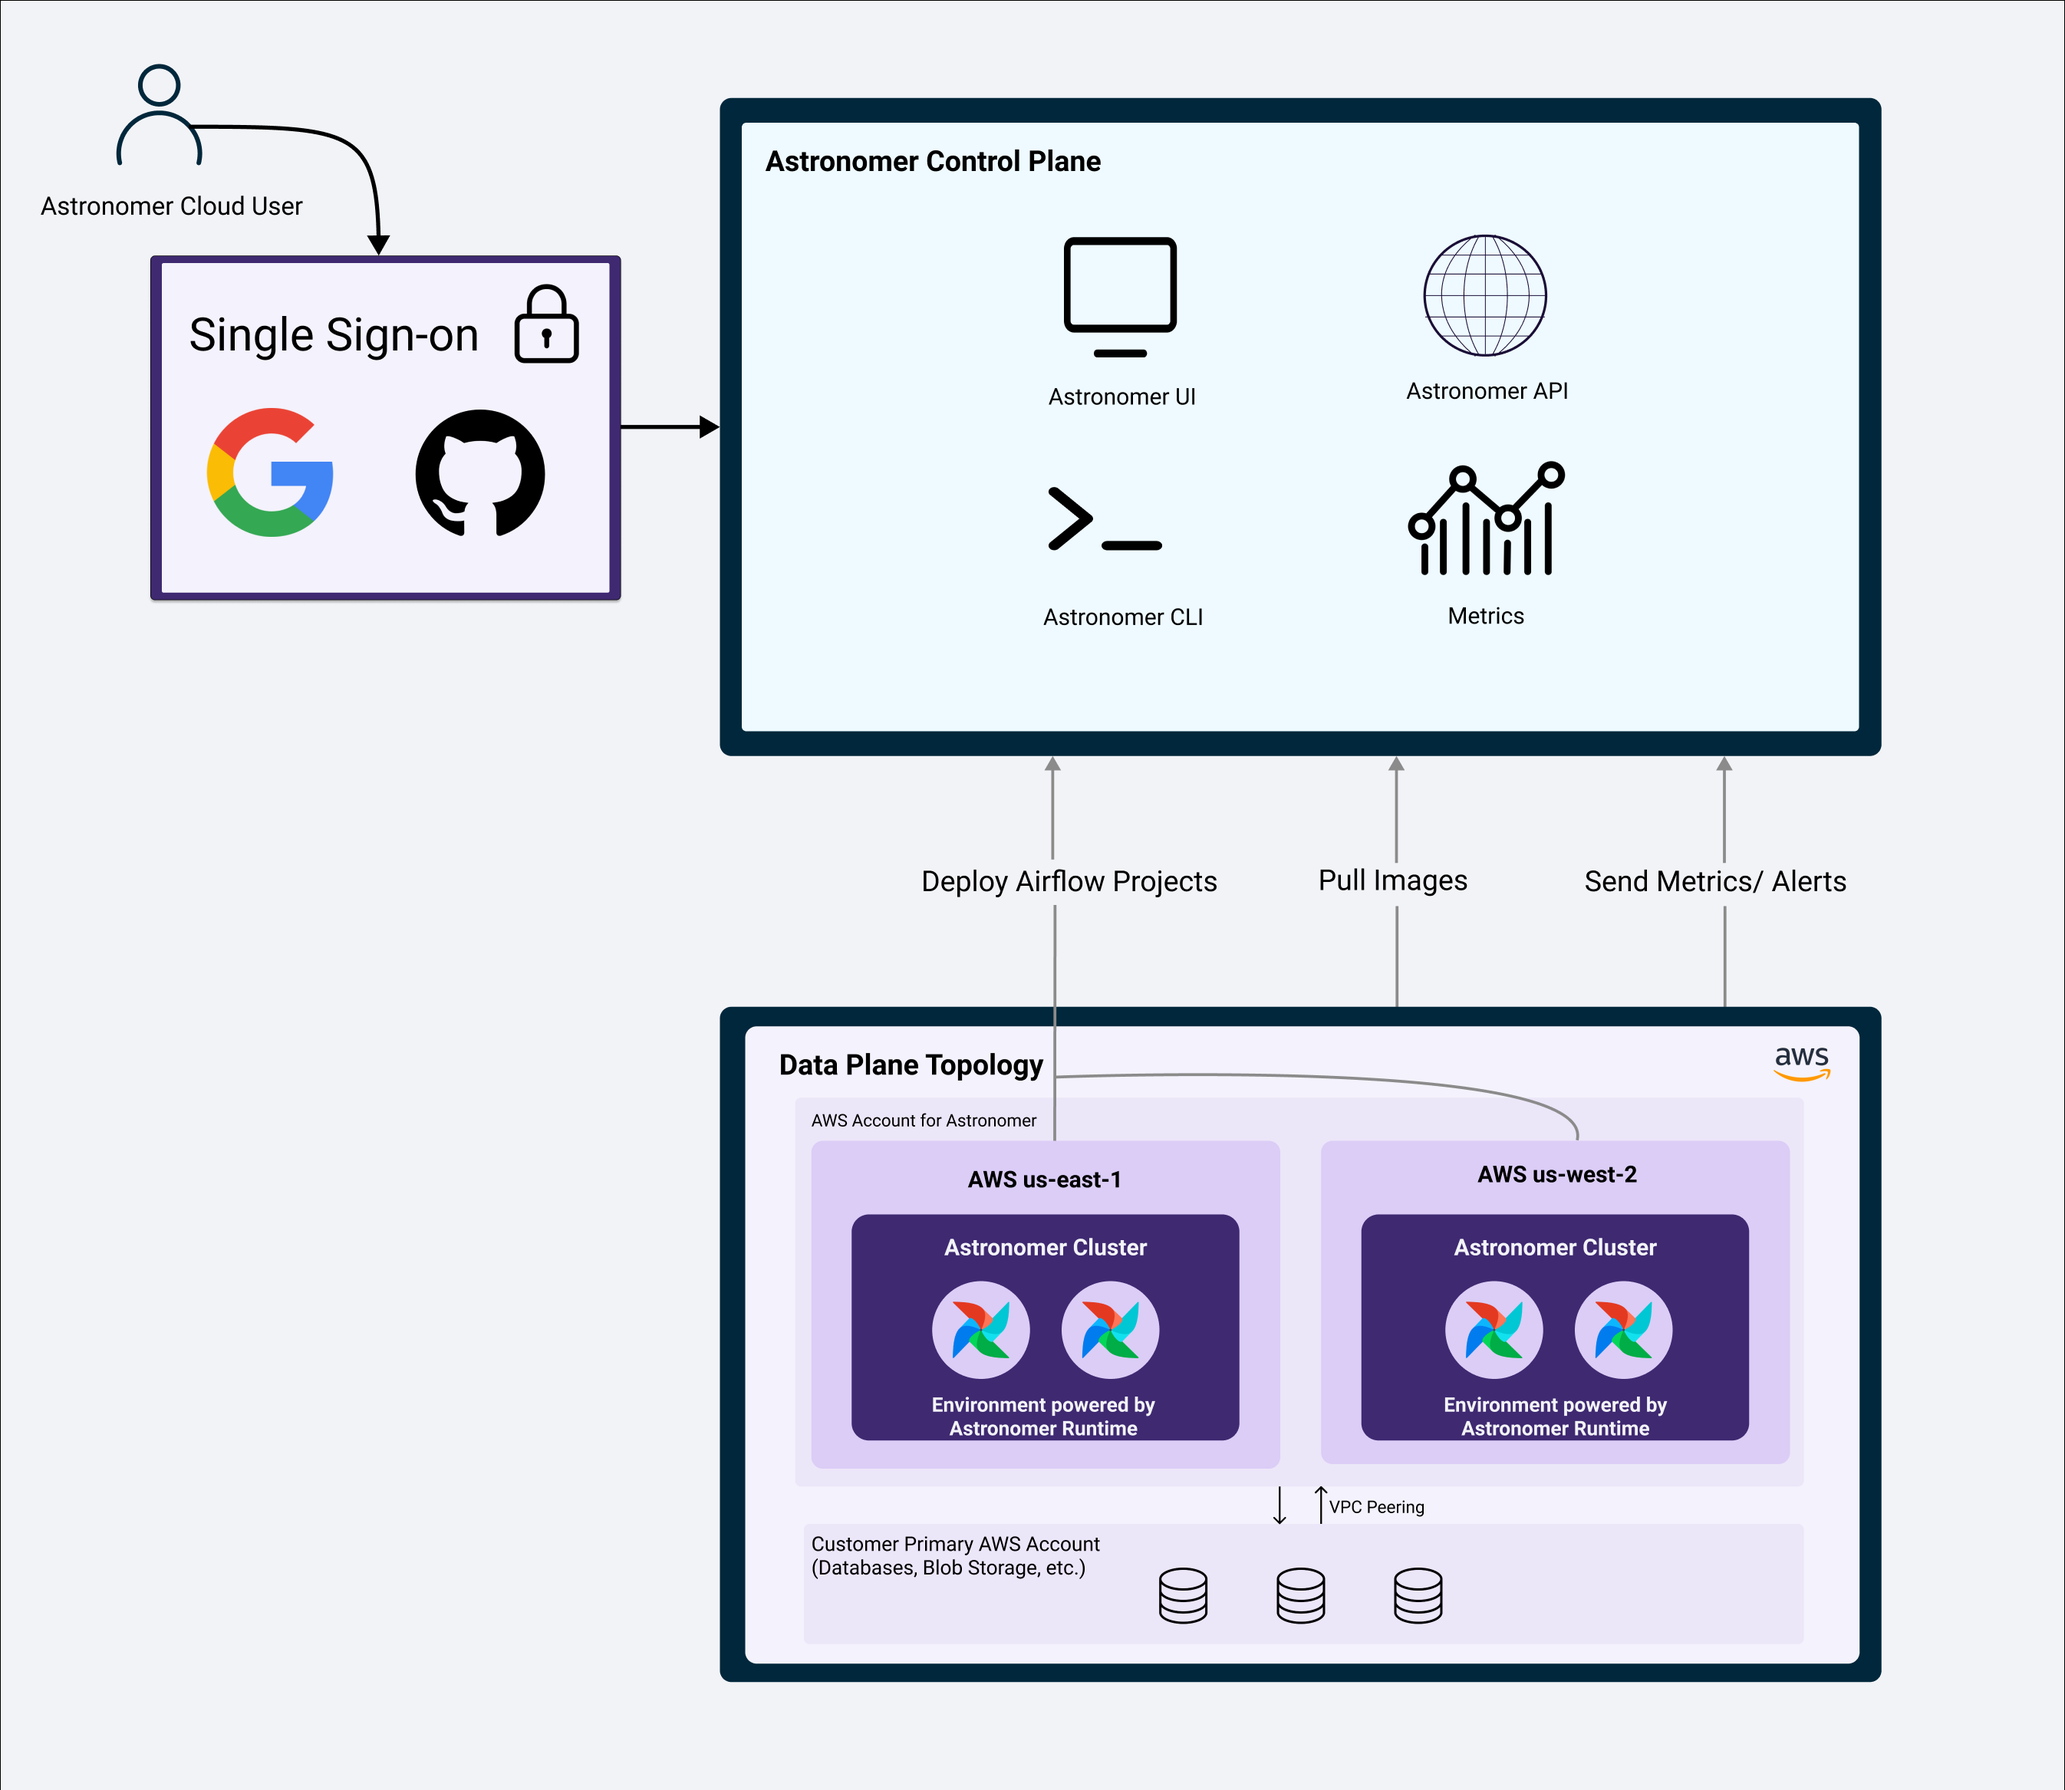
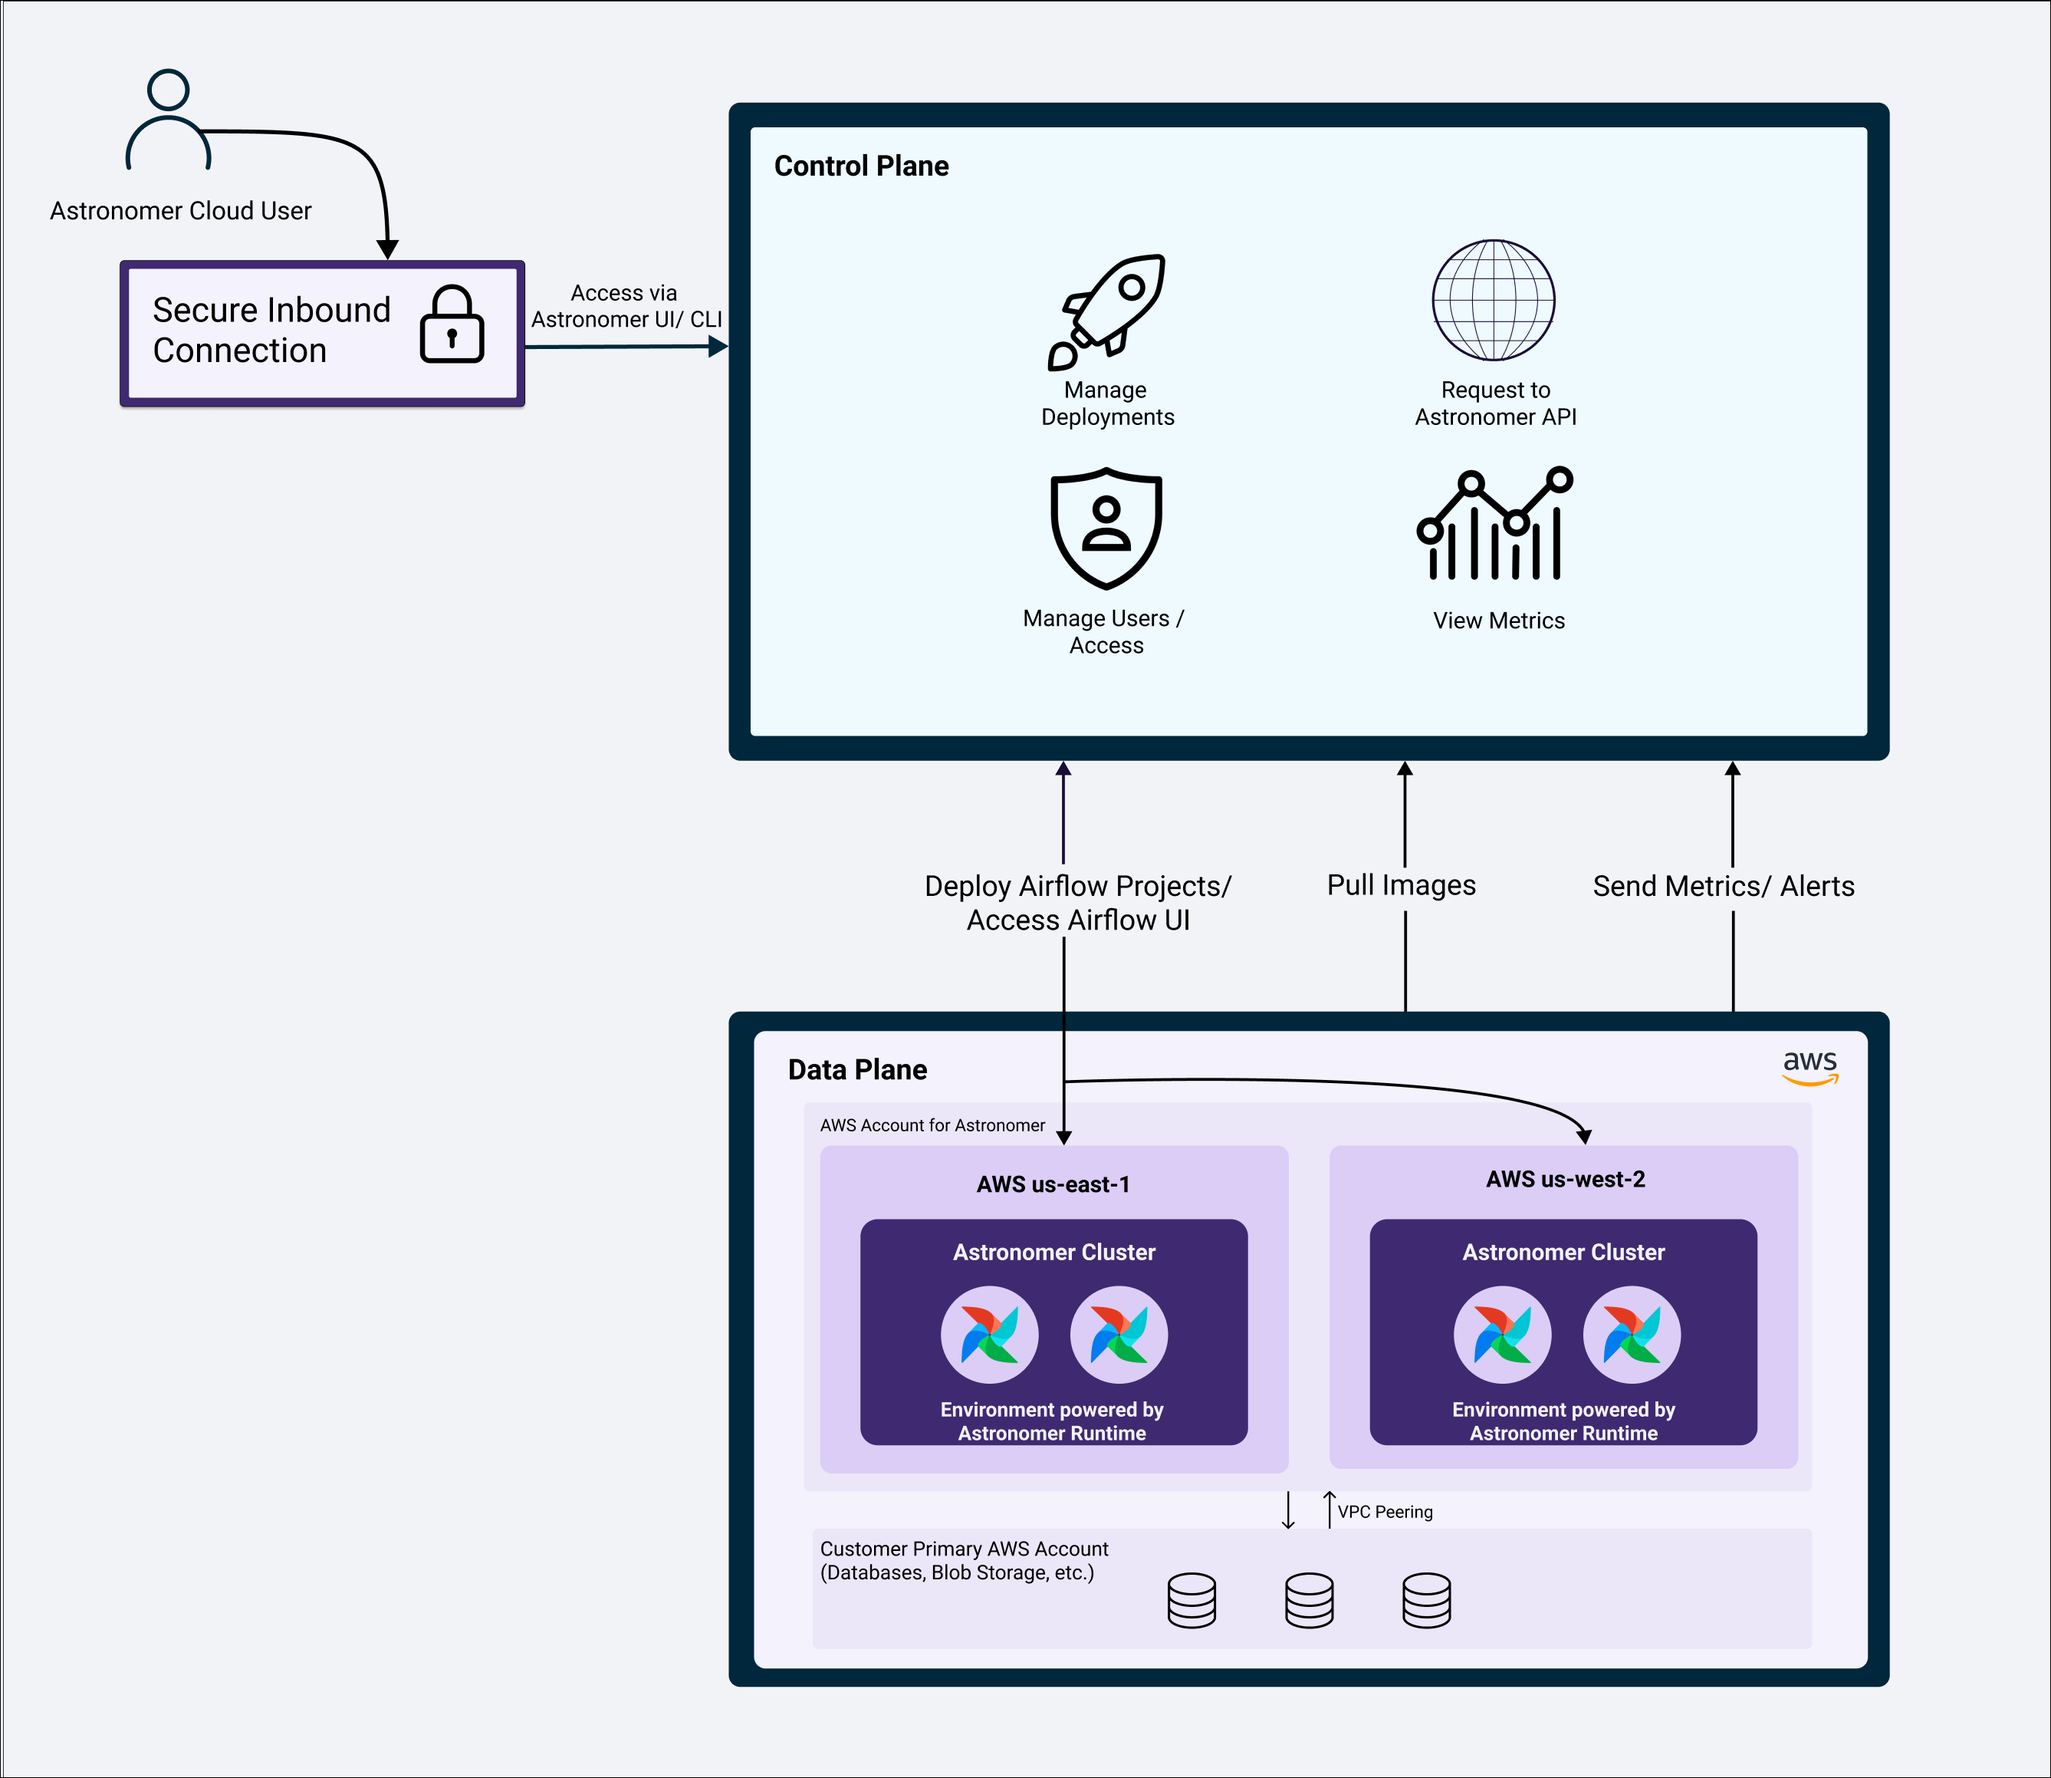
Made changes based on review

diff --git a/docs/overview.md b/docs/overview.md
@@ -9,7 +9,7 @@ slug: /
 
 Welcome to the Private Beta Program for Astronomer Cloud. We're thrilled to have you onboard as 'Build Partners' as we launch the next generation of our product. We expect our teams to be in close communication throughout the program, and this page will serve as a home for official product documentation.
 
-To start, Astronomer Cloud includes a game-changing deployment model that offers the self-service convenience of a fully managed Cloud service (the “Control Plane”) while respecting the need to keep data private, secure, and within corporate boundaries (the “Data Plane”).
+To start, Astronomer Cloud includes a game-changing deployment model that offers the self-service convenience of a fully managed Cloud service (the “control plane”) while respecting the need to keep data private, secure, and within corporate boundaries (the “data plane”).
 
 This model optimizes for security whilst relieving your team of operational overhead. As we look beyond Private Beta to build a robust set of differentiating features, we very much look forward to hearing your feedback.
 
@@ -17,7 +17,8 @@ This model optimizes for security whilst relieving your team of operational over
 
 Astronomer Cloud's architecture enables a few key features, available in Private Beta:
 
-- Support for Astronomer Cloud on AWS `us-east-1` and `us-west-2`.
+- Multi-tenant control plane completely managed by Astronomer
+- Support for Astronomer data plane on AWS `us-east-1` and `us-west-2`.
 - Worker auto-scaling, powered by Airflow's Celery Executor + KEDA.
 - Astronomer Runtime, a new collection of Docker images set to provide a differentiated Airflow experience. Astronomer Runtime will initially support Airflow 2.1.1.
 - Real-time, in-app chat support powered by Intercom.
